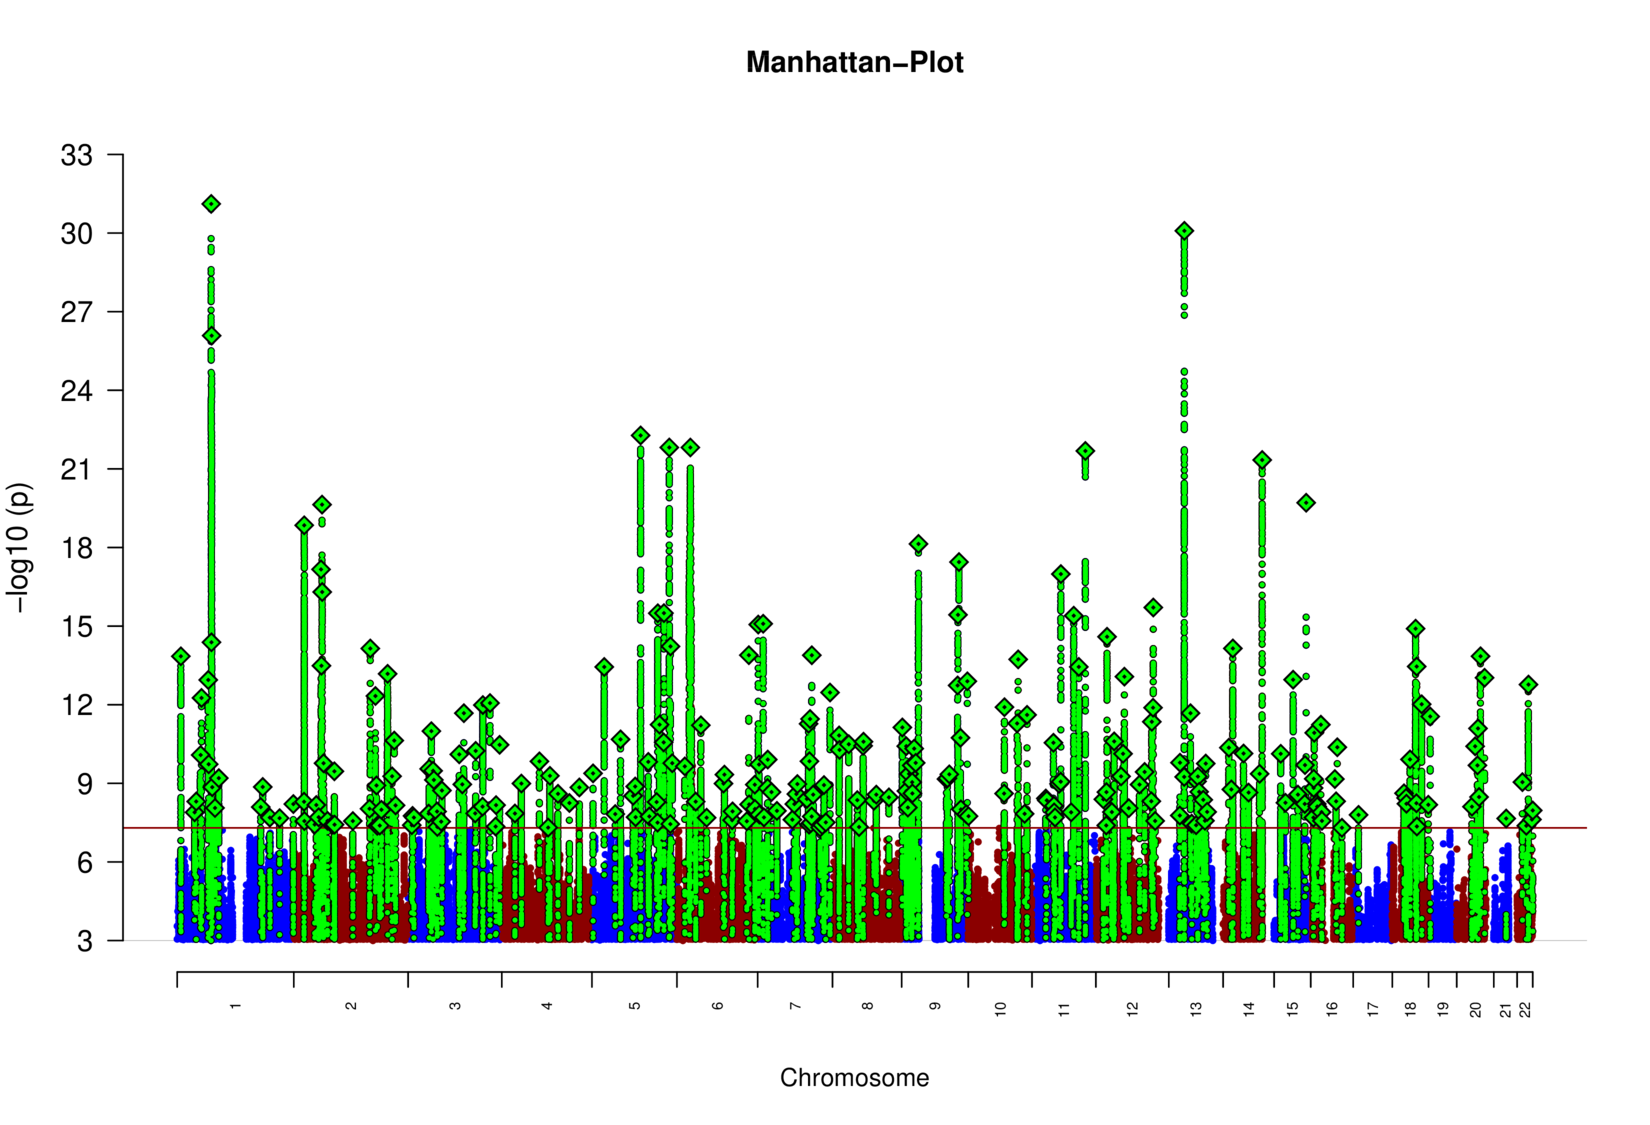
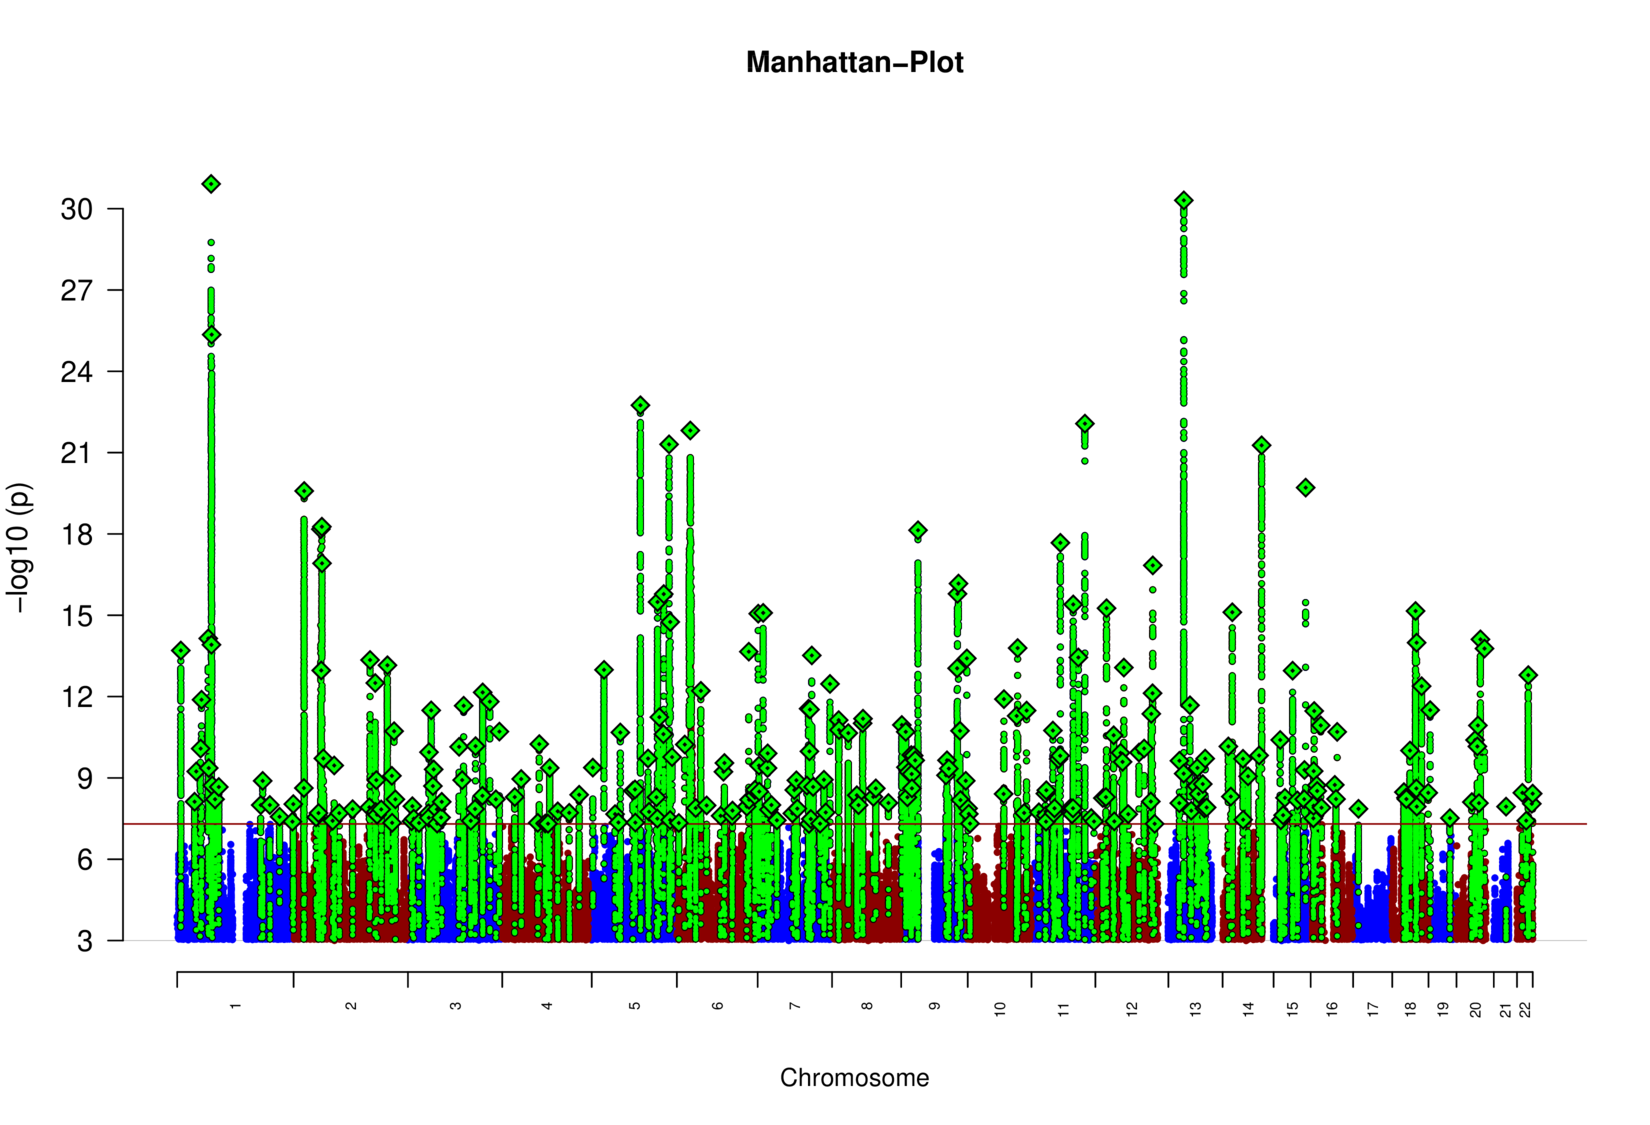
Available: v3.29.10

diff --git a/README.md b/README.md
@@ -2,6 +2,8 @@
 
 Working toward the next meta-analysis ("MDD3") by the Major Depressive Disorder Working Group of the Psychiatric Genomics Consortium.
 
+**Current version**: v3.29.10
+
 ![MDD Manhattan plot](docs/figures/manhattan.nog2.eur.png)
 
 ## Embargo date
@@ -16,7 +18,7 @@ Meta-analysis of cohorts from the [MDD2](https://doi.org/10.1038/s41588-018-0090
 
 and the following new cohorts:
 
-- [ALSPAC](http://www.bristol.ac.uk/alspac/), [FinnGen](https://www.finngen.fi/en), [23andMe](https://www.23andme.com/) (v7.2), [Airwave](https://police-health.org.uk)
+- [ALSPAC](http://www.bristol.ac.uk/alspac/), [FinnGen](https://www.finngen.fi/en), [23andMe](https://www.23andme.com/) (v7.2), [Airwave](https://police-health.org.uk), [Partners Biobank](https://biobank.partners.org)
 
 …plus more as they are incorporated into the analysis.
 

diff --git a/docs/updates.md b/docs/updates.md
@@ -1,5 +1,10 @@
 # Project updates
 
+# 2 Sep 2020
+
+- **v3.29.10** Add Partners Biobank cohort
+- available LOO cohorts for downstream analysis: `noUKBB`, `no23andMe`, `noALSPAC`
+
 # 20 Aug 2020
 
 - `analysis_version` variables defined as another way to refer to the most recent version of the analysis in Snakemake rules.
